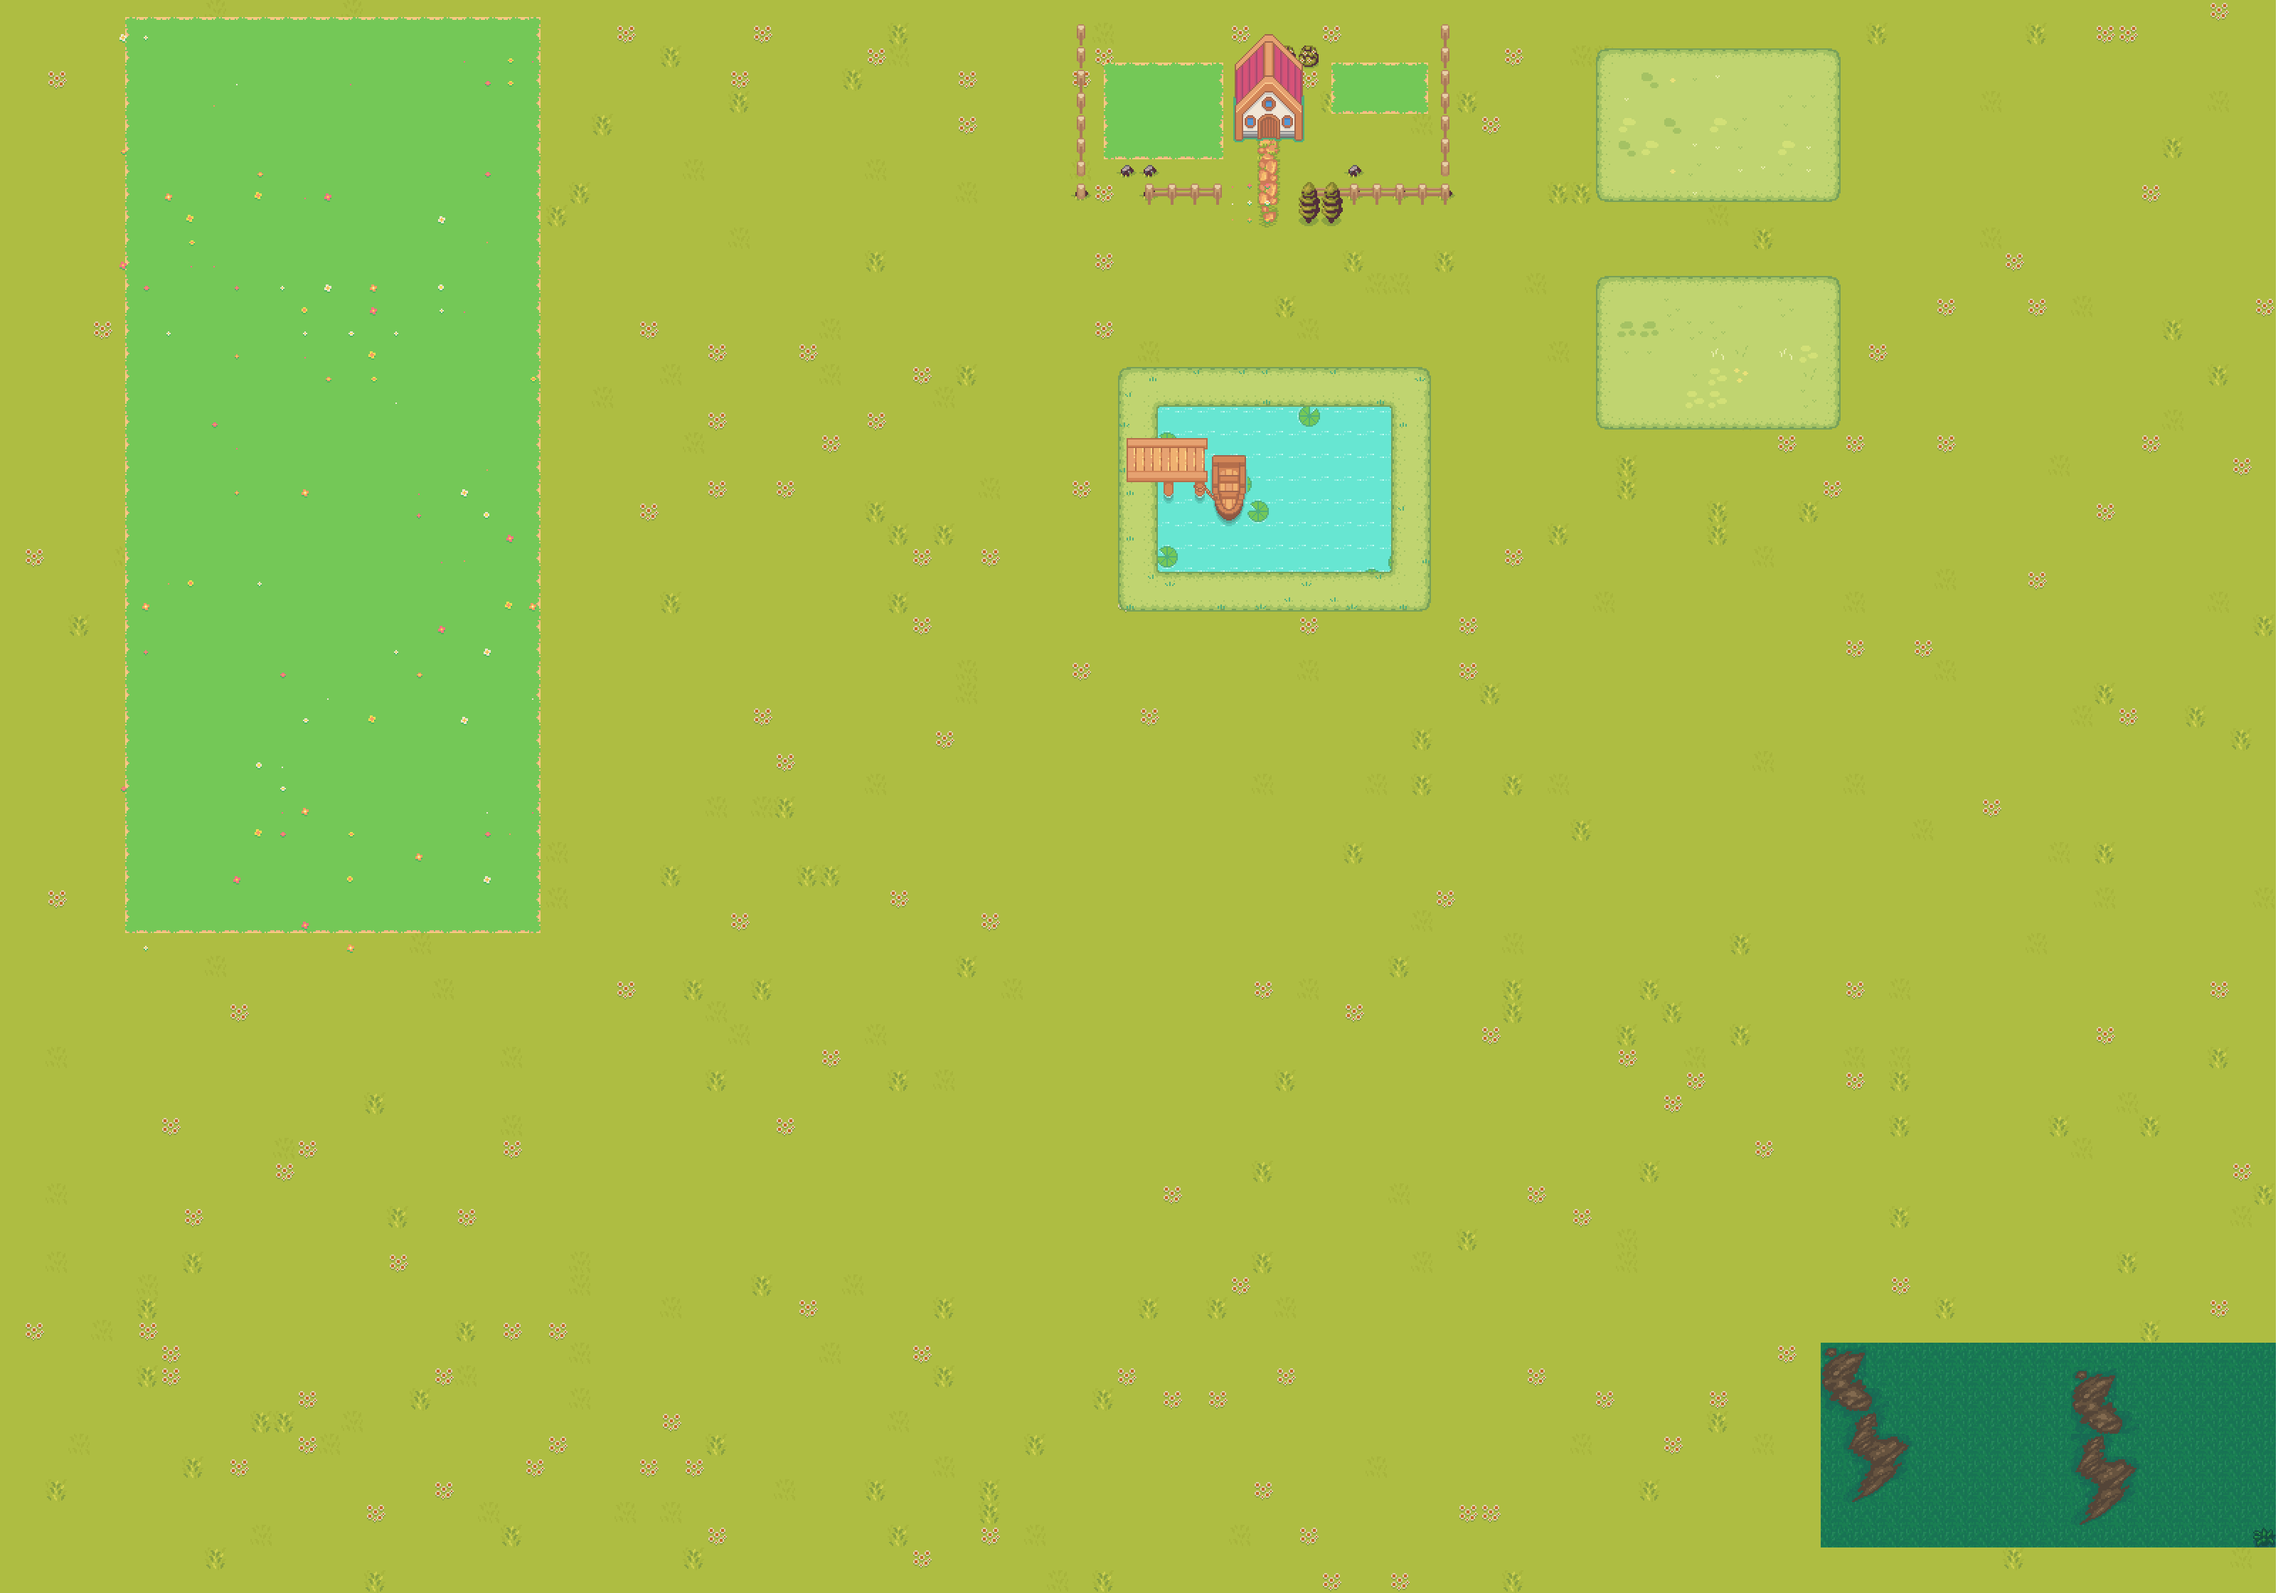
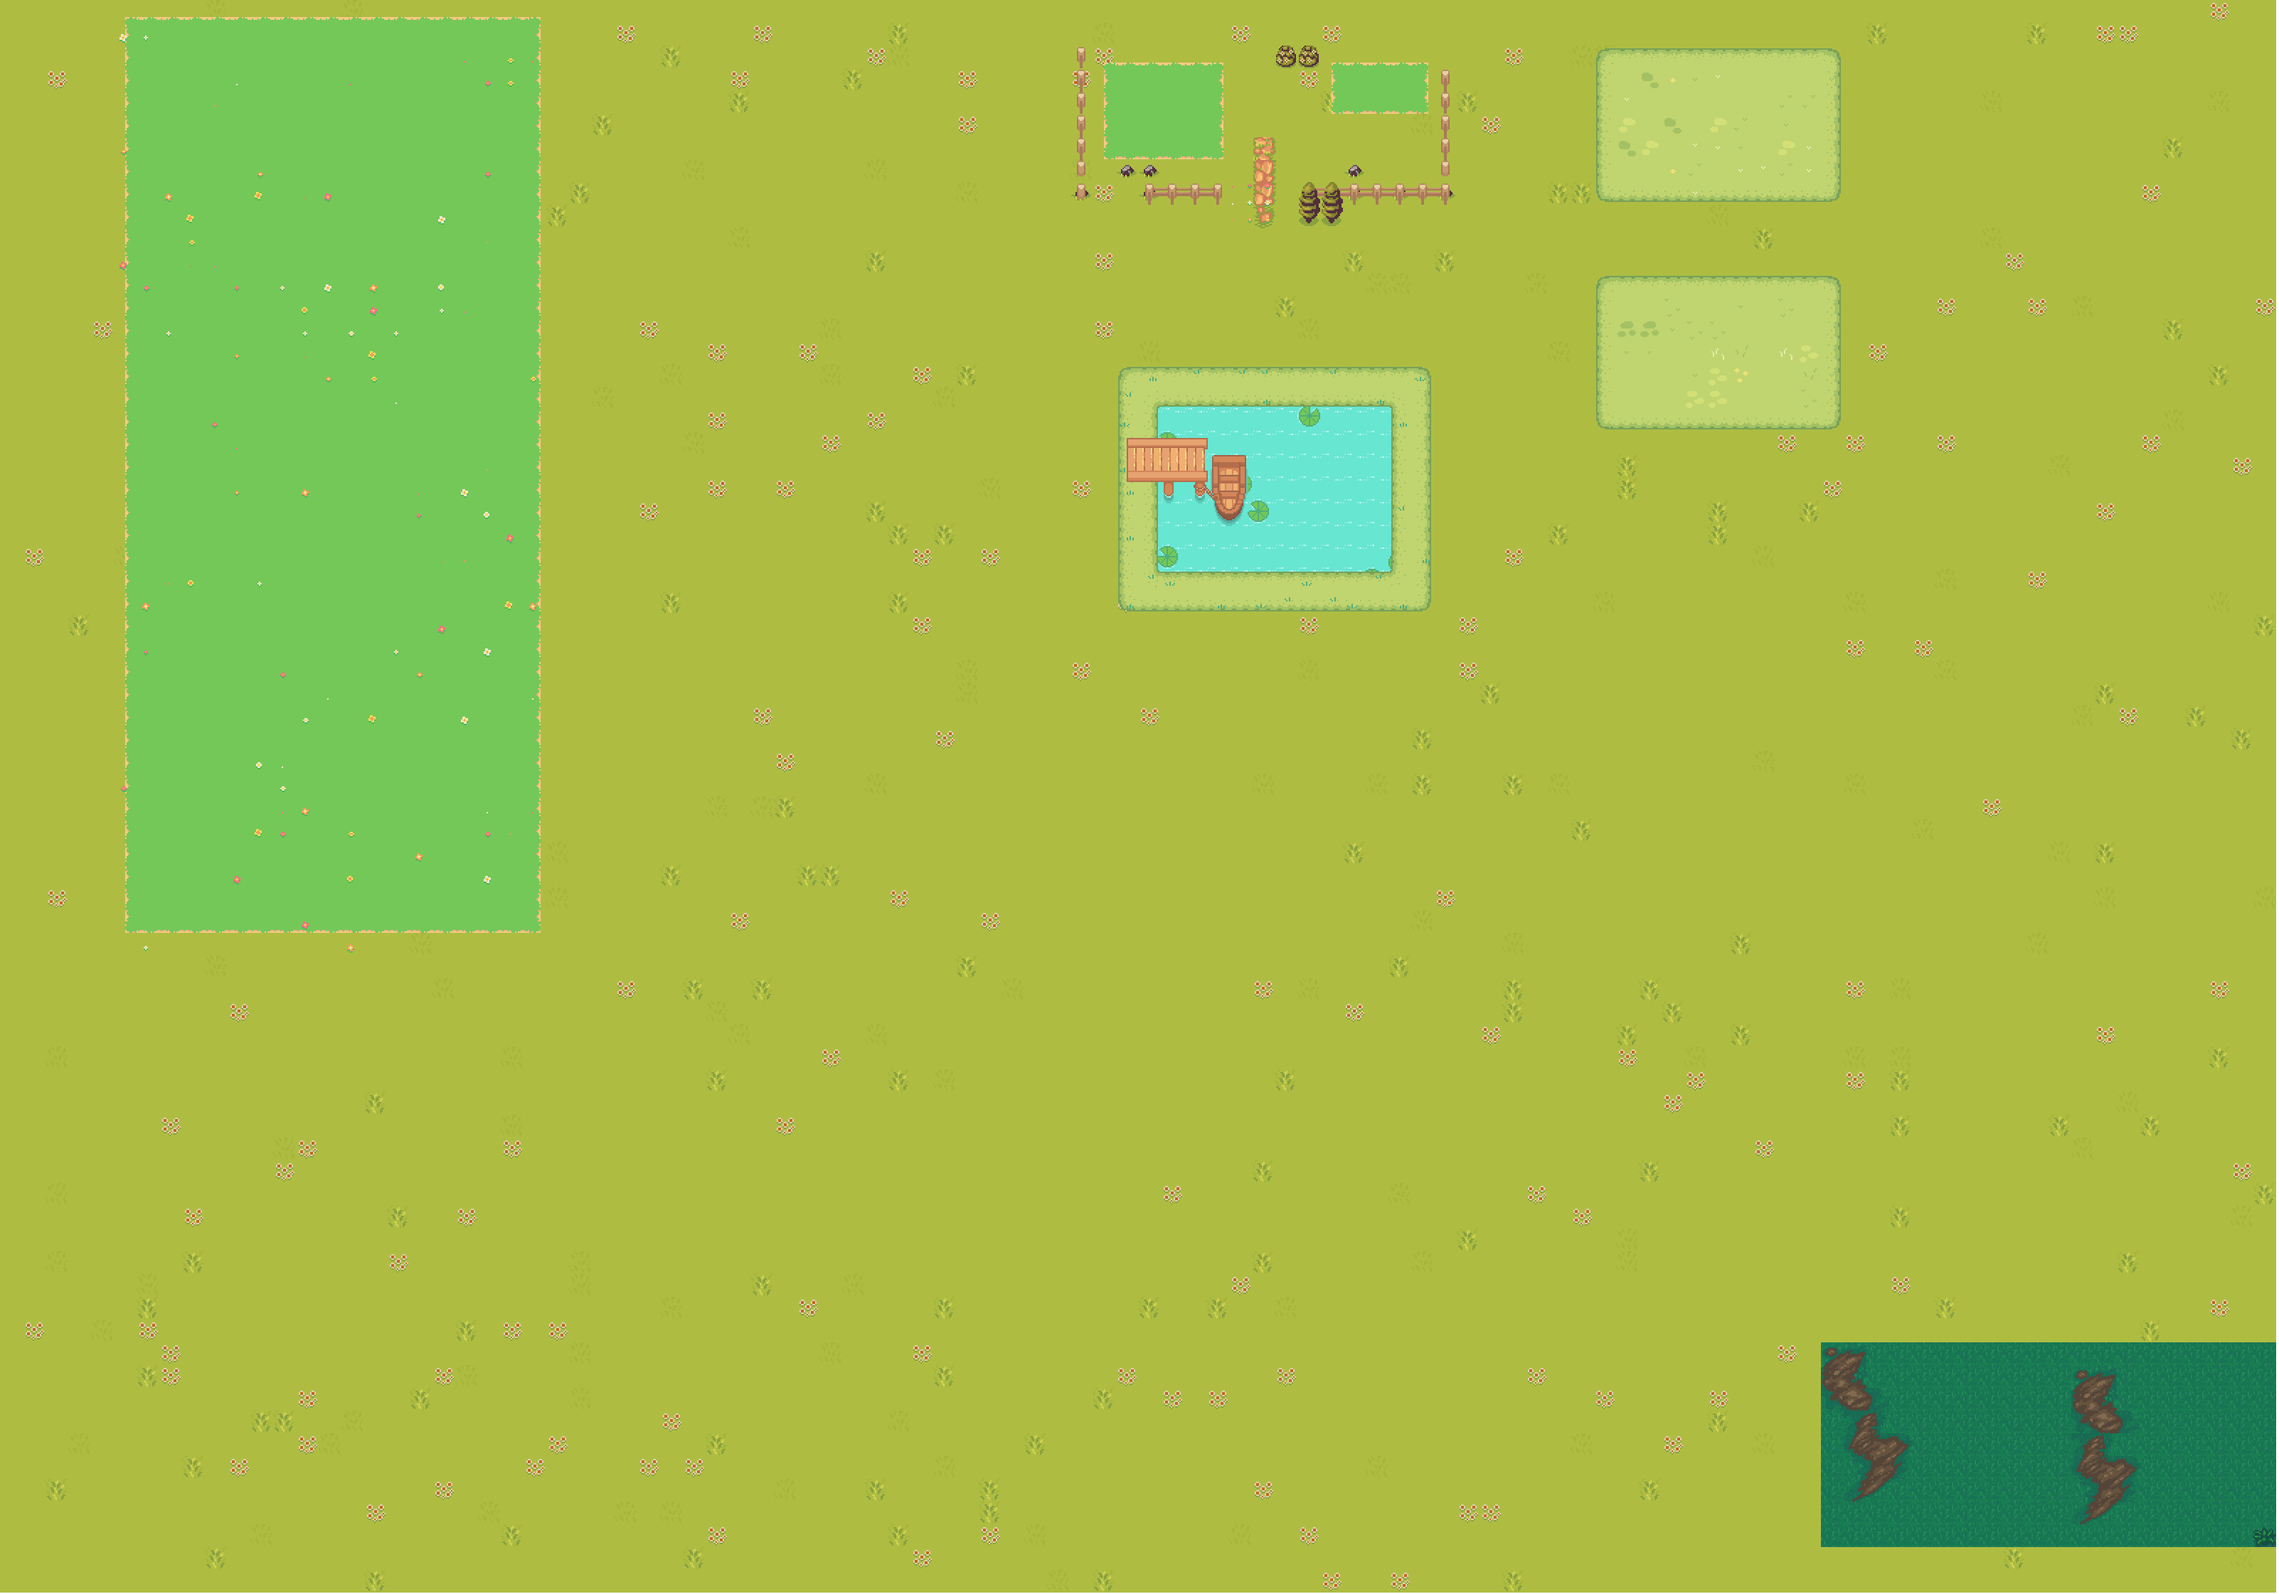
Setup render house

diff --git a/src/scenes/sc1.scene.ts b/src/scenes/sc1.scene.ts
@@ -20,18 +20,26 @@ import {
 
 import { BoundaryPrefab } from "entities/boundary.entity";
 import { ChickenPrefab } from "entities/chicken.entity";
+import { ItemPrefab } from "entities/item.entity";
+import { TreePrefab } from "entities/tree.entity";
+import { StaticTreePrefab } from "entities/static-tree.entity";
+import { HousePrefab } from "entities/house.entity";
+
+import { HouseGeneratorEntity } from "entities/house.generator.entity";
+import { StaticTreeGeneratorEntity } from "entities/static-tree.generator.entity";
 import { BoundaryGeneratorEntity } from "entities/boundary.generator.entity";
 import { ChickenGeneratorEntity } from "entities/chicken.generator.entity";
+
 import { BackgroundEntity } from "entities/background.entity";
 import { FarmerEntity } from "entities/farmer.entity";
-import { ItemPrefab } from "entities/item.entity";
 import { ItemGeneratorEntity } from "entities/item.generator.entity";
-import { TreePrefab } from "entities/tree.entity";
 import { TreeGeneratorEntity } from "entities/tree.generator.entity";
 import { AxeEntity } from "entities/axe.entity";
 import { FishingRodEntity } from "entities/fishing-rod.entity";
+import { PickaxeEntity } from "entities/pickaxe.entity";
 
 import background from "assets/images/survival-farm-map.png";
+import house from "assets/images/house.png";
 import tree from "assets/images/tree.png";
 import staticTree from "assets/images/static-tree.png";
 import bigTree from "assets/images/big-tree.png";
@@ -48,6 +56,7 @@ import coin from "assets/images/items/coin.png";
 
 import backgroundMusic from "assets/sounds/music.wav";
 
+import houseOffsets from "data/player-house-offsets.json";
 import staticTreeOffsets from "data/static-tree-offsets.json";
 import staticTreeOffsets2 from "data/static-tree-offsets-2.json";
 import boundaryOffsets from "data/boundary-offsets.json";
@@ -56,15 +65,15 @@ import treeOffsets from "data/tree-offsets.json";
 import bigTreeOffsets from "data/big-tree-offsets.json";
 
 import { GamePlayUI } from "./ui/game-play.ui";
-import { PickaxeEntity } from "entities/pickaxe.entity";
-import { StaticTreeGeneratorEntity } from "entities/static-tree.generator.entity";
-import { StaticTreePrefab } from "entities/static-tree.entity";
 
 @SceneTag("scene-1")
 @SceneUI(GamePlayUI)
 export class Scene1 extends Scene {
   @SpriteFrom(background)
   backgroundSprite!: Avatar;
+
+  @SpriteFrom(house)
+  houseSprite: Avatar;
 
   @SpriteFrom(staticTree)
   staticTreeSprite: Avatar;
@@ -146,6 +155,11 @@ export class Scene1 extends Scene {
           },
         },
       ]),
+      new HousePrefab({
+        props: {
+          sprite: this.houseSprite,
+        },
+      }),
       new StaticTreePrefab({
         props: {
           sprite: this.staticTreeSprite,
@@ -245,6 +259,14 @@ export class Scene1 extends Scene {
           props: {
             staticTreeOffsets: staticTreeOffsets as (1 | 0)[],
             staticTreeOffsets2: staticTreeOffsets2 as (1 | 0)[],
+          },
+        },
+      ]),
+      new LogicComponent([
+        HouseGeneratorEntity,
+        {
+          props: {
+            houseOffsets: houseOffsets as (1 | 0)[],
           },
         },
       ]),

diff --git a/src/entities/house.entity.ts b/src/entities/house.entity.ts
@@ -1,0 +1,53 @@
+import {
+  LogicComponent,
+  RectEntity,
+  Prefab,
+  ColorSprite,
+} from "react-simple-game-engine";
+
+import {
+  Avatar,
+  Configuration,
+  EntityPrepare,
+} from "react-simple-game-engine/lib/export-types";
+
+export type HouseProps = {
+  sprite: Avatar;
+};
+
+export class HouseEntity extends RectEntity<HouseProps> {
+  protected onPrepare(): EntityPrepare<this> {
+    return {
+      sprite: new LogicComponent([
+        ColorSprite,
+        {
+          source: [0, 0, 0, 0],
+        },
+      ]),
+      bodyOptions: {
+        isStatic: true,
+      },
+    };
+  }
+
+  private drawAvatar() {
+    const sprite = this.props.sprite;
+    const { width: spriteW, height: spriteH } = sprite;
+    const point = { ...this.position };
+    point.y -= spriteH / 2; //change pivot of sprite
+    point.y += this.height / 2;
+    this.renderer.drawHandle(point, (renderer) => {
+      renderer.image(sprite, 0, 0, spriteW, spriteH);
+    });
+  }
+
+  onDraw() {
+    this.drawAvatar();
+  }
+}
+
+export class HousePrefab extends Prefab<HouseEntity> {
+  constructor(config: Configuration<HouseEntity>) {
+    super([HouseEntity, config]);
+  }
+}

diff --git a/src/entities/house.generator.entity.ts b/src/entities/house.generator.entity.ts
@@ -1,0 +1,21 @@
+import { Generator, TILE_SIZE } from "./generator.entity";
+import { HousePrefab } from "./house.entity";
+
+type Props = {
+  houseOffsets: (0 | 1)[];
+};
+
+export class HouseGeneratorEntity extends Generator<Props> {
+  onBootstrapCompleted() {
+    super.onBootstrapCompleted();
+    const { houseOffsets } = this.props;
+    this.generateTile(HousePrefab, houseOffsets, {
+      extendOffsets: {
+        x: TILE_SIZE,
+        y: TILE_SIZE + TILE_SIZE / 2,
+        width: TILE_SIZE * 2,
+        height: TILE_SIZE * 3,
+      },
+    });
+  }
+}
